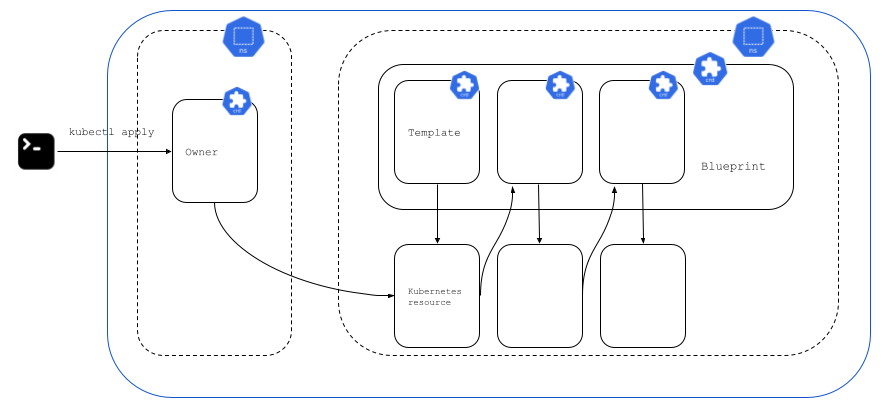
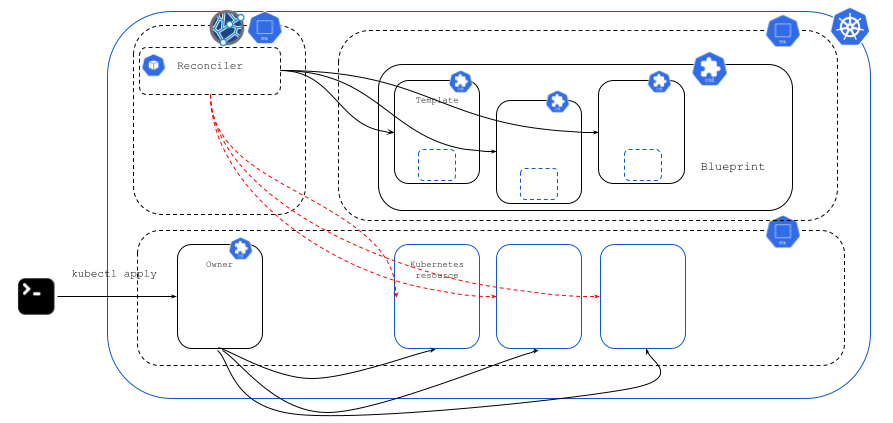
Second diagram

diff --git a/site/content/docs/development/architecture.md b/site/content/docs/development/architecture.md
@@ -48,6 +48,17 @@ other linked resources.
 
 ![Generic Blueprint](img/generic-blueprint.png)
 
+### Instantiates blueprint
+When cartographer instantiates a blueprint, for each resource in the blueprint, it will:
+1. Get inputs from blueprint
+2. Get params from blueprint, template, owner
+3. Interpolate inputs, params, owner spec with template yaml
+4. Apply interpolated object to Kubernetes
+5. Retrieve output from applied object using output path specified in template
+
+![Realize](img/realize.png)
+
+
 ### Types of templates
 
 Templates are typed by the output they produce.
